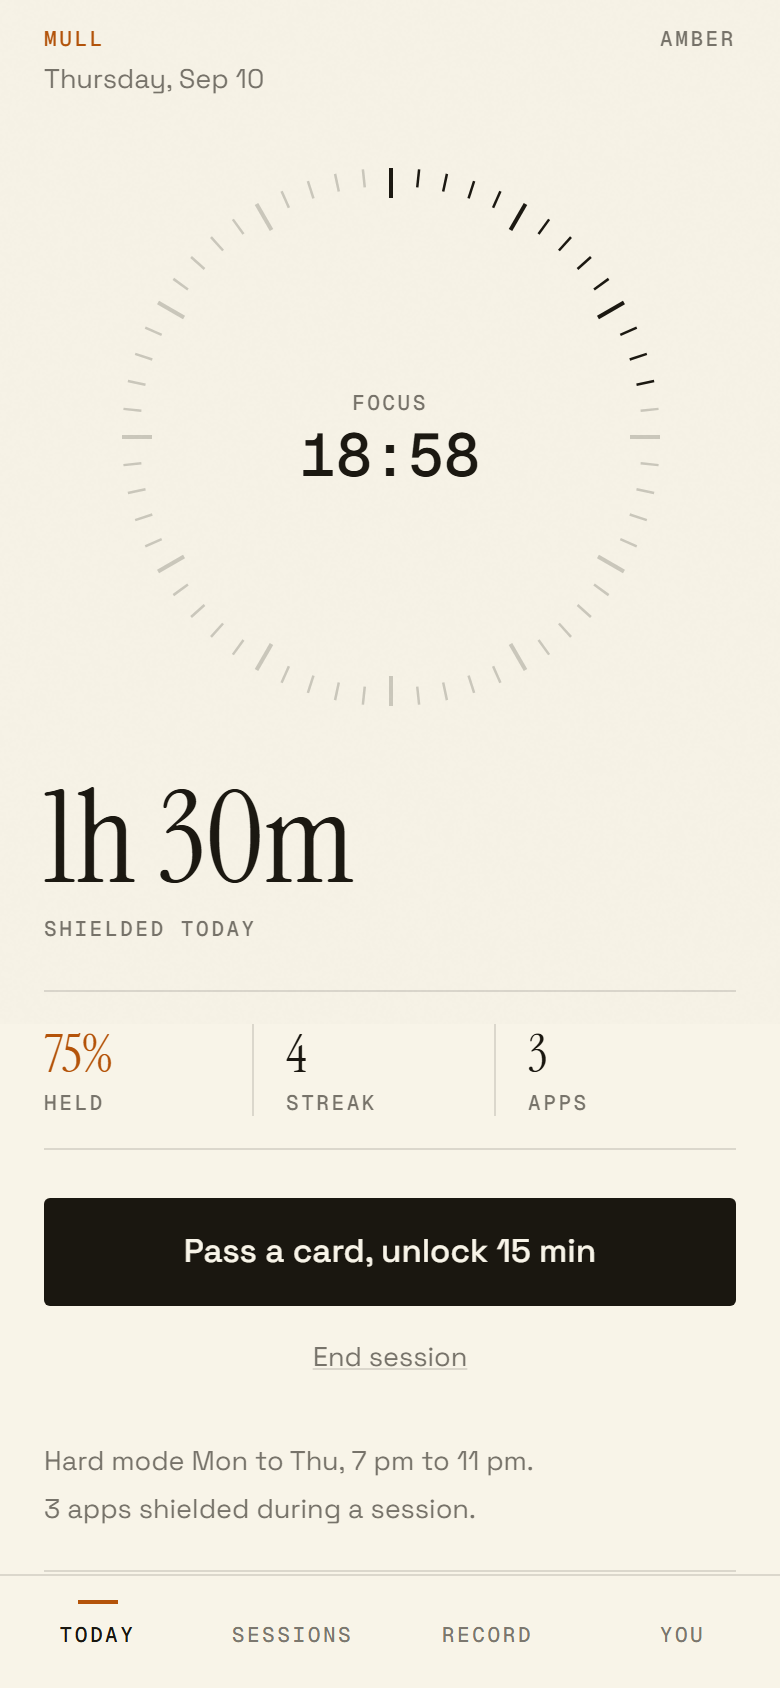
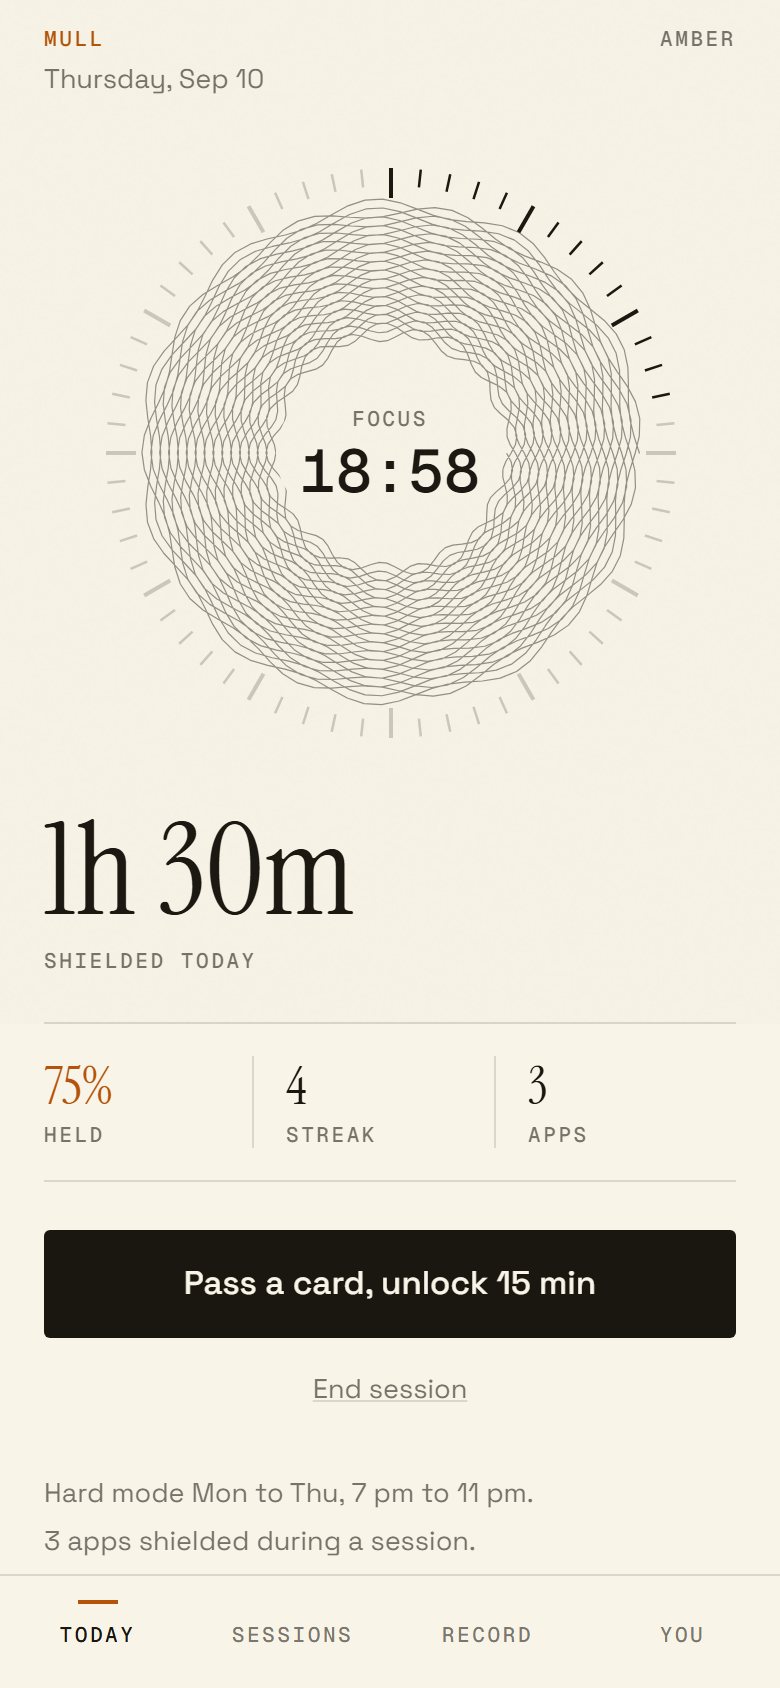
mobile: guilloche seal as the signature visual
Dennis wanted a signature object the way Opal has its gem. Guilloche is
the engine-turned engraving on banknotes, share certificates and watch
dials, which is the same world as the paper and ink register.

- src/guilloche.ts: one continuous spiral whose radius carries a sine,
  drawn dense enough that adjacent turns cross and the crossings make the
  tone. Pure math, deterministic, one SVG path, no shader.
- the figure is derived from the record: lobes come from concepts learned,
  depth from the streak, so the seal grows as you cover ground.
- it fills the dial, with the tick bezel outside and the middle left clear
  for the numerals. It turns six degrees a minute during a session, which
  is a real rose engine's rate and slow enough you only see it if you look.
  Still under reduced motion.
- Record page carries it as a letterhead mark.
- icon, adaptive icon, splash and favicon all drawn from the same
  generator, in a bolder cut: the 36 turn figure collapses to a grey donut
  below 120px and an icon lives at 60, so the mark has a small-size variant
  like any real one. Verified at 180 / 120 / 88 / 60 / 40.
- app.json goes light: paper splash and adaptive background.
- test/rosette-sheet.mjs and test/icons.mjs regenerate the studies.

tsc clean, exports clean.

diff --git a/apps/mobile/src/dial.tsx b/apps/mobile/src/dial.tsx
@@ -1,6 +1,8 @@
 import React, { useEffect, useRef } from 'react';
 import { Animated, Easing, useWindowDimensions, View } from 'react-native';
 import Svg, { Circle, G, Line } from 'react-native-svg';
+import type { Seal } from './guilloche';
+import { Rosette } from './rosette';
 import { SPACE, useTheme } from './theme';
 import { T } from './ui';
 
@@ -8,30 +10,29 @@ export type DialState = 'resting' | 'active' | 'shielded' | 'unlocked' | 'hard' 
 
 export interface DialProps {
   state: DialState;
-  /** 0..1 of the ring that is filled. */
+  /** 0..1 of the bezel that is filled. */
   progress: number;
   label: string;
   value: string;
   a11y: string;
+  /** Drives the engraving. Same record always draws the same figure. */
+  seal: Seal;
 }
 
 const TICKS = 60;
 const AnimatedLine = Animated.createAnimatedComponent(Line);
 
 /**
- * A bezel, not an orb. Sixty tick marks around a circle; elapsed ones are ink,
- * the rest are faint. Every fifth tick is longer, which is what makes it read as
- * an instrument instead of a progress ring. No fill, no gradient, no glow.
- *
- * State reads through the marks: hard mode drops the long-tick rhythm and adds
- * an inner rule (tighter, more clinical), unlocked draws the filled arc in accent
- * with an inner rule, milestone adds an outer hairline.
+ * A bezel around a seal, not an orb. The outer ring is sixty tick marks, elapsed
+ * in ink and the rest faint, every fifth longer, which is what makes it read as
+ * an instrument. Inside sits the guilloché, which carries the record. The middle
+ * stays clear paper so the numerals have somewhere quiet to sit.
  */
-export function Dial({ state, progress, label, value, a11y }: DialProps) {
+export function Dial({ state, progress, label, value, a11y, seal }: DialProps) {
   const { c, reduceMotion } = useTheme();
   const { width } = useWindowDimensions();
 
-  const size = Math.min(Math.round(width * 0.70), 300);
+  const size = Math.min(Math.round(width * 0.74), 320);
   const box = size;
   const cx = box / 2;
   const cy = box / 2;
@@ -40,6 +41,9 @@ export function Dial({ state, progress, label, value, a11y }: DialProps) {
   const uniform = state === 'hard';
   const filled = Math.round(Math.max(0, Math.min(1, progress)) * TICKS);
   const inkTick = state === 'unlocked' ? c.accent : state === 'resting' ? c.fgMuted : c.fg;
+
+  const engraving = state === 'unlocked' || state === 'milestone' ? c.accent : c.fg;
+  const engravingOpacity = state === 'resting' ? 0.28 : state === 'hard' ? 0.32 : 0.45;
 
   // One earned motion: the marks sweep on when the dial changes state.
   const sweep = useRef(new Animated.Value(1)).current;
@@ -59,15 +63,32 @@ export function Dial({ state, progress, label, value, a11y }: DialProps) {
     const len = uniform ? 9 : major ? 15 : 9;
     const on = i < filled;
     const angle = (i / TICKS) * 2 * Math.PI - Math.PI / 2;
-    const x1 = cx + Math.cos(angle) * (outer - len);
-    const y1 = cy + Math.sin(angle) * (outer - len);
-    const x2 = cx + Math.cos(angle) * outer;
-    const y2 = cy + Math.sin(angle) * outer;
-    return { i, x1, y1, x2, y2, on, major, w: major ? 2 : 1.25 };
+    return {
+      i,
+      x1: cx + Math.cos(angle) * (outer - len),
+      y1: cy + Math.sin(angle) * (outer - len),
+      x2: cx + Math.cos(angle) * outer,
+      y2: cy + Math.sin(angle) * outer,
+      on,
+      w: major ? 2 : 1.25,
+    };
   });
 
   return (
     <View accessible accessibilityLabel={a11y} style={{ width: box, height: box, alignSelf: 'center', alignItems: 'center', justifyContent: 'center' }}>
+      <Rosette
+        size={box}
+        innerRatio={0.4}
+        outerRatio={0.86}
+        seal={seal}
+        stroke={engraving}
+        strokeWidth={0.6}
+        opacity={engravingOpacity}
+        driftPerMinute={state === 'active' || state === 'unlocked' ? 6 : 0}
+        reduceMotion={reduceMotion}
+        austere={state === 'hard'}
+      />
+
       <Svg width={box} height={box} style={{ position: 'absolute' }}>
         <G>
           {marks.map((m) => (
@@ -84,11 +105,11 @@ export function Dial({ state, progress, label, value, a11y }: DialProps) {
             />
           ))}
         </G>
-        {(state === 'hard' || state === 'unlocked') && <Circle cx={cx} cy={cy} r={outer - 24} stroke={c.border} strokeWidth={1} fill="none" />}
+        {(state === 'hard' || state === 'unlocked') && <Circle cx={cx} cy={cy} r={outer - 20} stroke={c.border} strokeWidth={1} fill="none" />}
         {state === 'milestone' && <Circle cx={cx} cy={cy} r={outer - 1} stroke={c.accentBorder} strokeWidth={1} fill="none" />}
       </Svg>
 
-      <View style={{ alignItems: 'center', gap: SPACE.xs }}>
+      <View style={{ alignItems: 'center', gap: SPACE.xs, backgroundColor: c.bg, paddingHorizontal: SPACE.md, paddingVertical: SPACE.sm, borderRadius: 999 }}>
         {label ? (
           <T v="label" color={c.fgMuted}>
             {label}

diff --git a/apps/mobile/src/guilloche.ts b/apps/mobile/src/guilloche.ts
@@ -1,0 +1,77 @@
+/**
+ * Guilloché: the engine-turned engraving on banknotes, share certificates and
+ * watch dials. A rose engine cuts one continuous line while the work rotates and
+ * the cutter rocks, so the line crosses its own previous turns and the crossings
+ * make the tone. Same idea here: one spiral whose radius carries a sine, drawn
+ * dense enough that adjacent turns interleave.
+ *
+ * One path element, no fill, no gradient, no shader. Deterministic, so the same
+ * record always draws the same seal.
+ */
+
+export interface RosetteParams {
+  /** Radius where the engraving starts. Leave the middle clear for the numerals. */
+  rInner: number;
+  /** Radius where it ends. */
+  rOuter: number;
+  /** How many times the line goes around. Density. */
+  turns: number;
+  /** Lobes per revolution. Fractional values precess and look richer. */
+  petals: number;
+  /**
+   * Wave height as a multiple of the pitch between turns. Below 1 the turns never
+   * touch and it reads as a plain spiral; around 1.4 to 2.2 they cross and the
+   * interference appears. Above 3 it goes to mush.
+   */
+  amplitude: number;
+  /** Radians. Rotates the whole figure. */
+  phase?: number;
+  /** Points per revolution. 120 is smooth at phone sizes. */
+  resolution?: number;
+}
+
+export interface Seal {
+  /** What the pattern is derived from, so the same record redraws the same seal. */
+  concepts: number;
+  streak: number;
+}
+
+/** Builds the SVG `d` string for one continuous engraved spiral. */
+export function rosettePath(cx: number, cy: number, p: RosetteParams): string {
+  const res = p.resolution ?? 120;
+  const steps = Math.max(2, Math.round(p.turns * res));
+  const band = p.rOuter - p.rInner;
+  const pitch = band / p.turns;
+  const amp = pitch * p.amplitude;
+  const phase = p.phase ?? 0;
+
+  const out: string[] = [];
+  for (let i = 0; i <= steps; i++) {
+    const t = i / steps;
+    const theta = t * p.turns * Math.PI * 2;
+    const r = p.rInner + band * t + amp * Math.sin(p.petals * theta + phase);
+    const x = cx + r * Math.cos(theta);
+    const y = cy + r * Math.sin(theta);
+    out.push(`${i === 0 ? 'M' : 'L'}${x.toFixed(2)} ${y.toFixed(2)}`);
+  }
+  return out.join('');
+}
+
+/**
+ * The seal grows with the record. Petals come from concepts learned so the figure
+ * gains lobes as you cover ground; amplitude comes from the streak so a run of
+ * passes deepens the cut. Both are clamped, because past a point more is mush.
+ */
+export function paramsForSeal(seal: Seal, rInner: number, rOuter: number): RosetteParams {
+  const concepts = Math.max(0, seal.concepts);
+  const streak = Math.max(0, seal.streak);
+  return {
+    rInner,
+    rOuter,
+    turns: 30,
+    // 6 lobes at zero, one more per two concepts, capped at 22. The .5 keeps it
+    // precessing so the figure never closes into a plain flower.
+    petals: Math.min(22, 6 + Math.floor(concepts / 2)) + 0.5,
+    amplitude: Math.min(2.4, 1.3 + streak * 0.08),
+  };
+}

diff --git a/apps/mobile/src/rosette.tsx b/apps/mobile/src/rosette.tsx
@@ -1,0 +1,57 @@
+import React, { useEffect, useMemo, useRef } from 'react';
+import { Animated, Easing } from 'react-native';
+import Svg, { Path } from 'react-native-svg';
+import { paramsForSeal, rosettePath, type Seal } from './guilloche';
+
+export interface RosetteProps {
+  size: number;
+  /** Fraction of the radius left clear in the middle. */
+  innerRatio: number;
+  /** Fraction of the radius the engraving reaches. */
+  outerRatio: number;
+  seal: Seal;
+  stroke: string;
+  strokeWidth?: number;
+  opacity?: number;
+  /** Degrees per minute. 0 is still. Ignored under reduced motion. */
+  driftPerMinute?: number;
+  reduceMotion?: boolean;
+  /** Tighter, shallower cut. Used by hard mode. */
+  austere?: boolean;
+}
+
+const AnimatedSvg = Animated.createAnimatedComponent(Svg);
+
+/**
+ * The seal. One engraved spiral whose figure is derived from the record, so it
+ * gains lobes as concepts are learned and deepens with a streak. Static by
+ * default; during a session it turns about six degrees a minute, which is the
+ * rate of a real rose engine and slow enough that you only notice it if you look.
+ */
+export function Rosette({ size, innerRatio, outerRatio, seal, stroke, strokeWidth = 0.6, opacity = 1, driftPerMinute = 0, reduceMotion = false, austere = false }: RosetteProps) {
+  const r = size / 2;
+  const d = useMemo(() => {
+    const p = paramsForSeal(seal, r * innerRatio, r * outerRatio);
+    // 90 points per turn is smooth at phone sizes and keeps the path under ~3k commands.
+    return rosettePath(r, r, austere ? { ...p, turns: p.turns + 8, amplitude: Math.max(0.9, p.amplitude - 0.7), resolution: 90 } : { ...p, resolution: 90 });
+  }, [r, innerRatio, outerRatio, seal.concepts, seal.streak, austere]);
+
+  const spin = useRef(new Animated.Value(0)).current;
+  useEffect(() => {
+    spin.stopAnimation();
+    spin.setValue(0);
+    if (reduceMotion || driftPerMinute <= 0) return;
+    const msPerTurn = (360 / driftPerMinute) * 60_000;
+    const loop = Animated.loop(Animated.timing(spin, { toValue: 1, duration: msPerTurn, easing: Easing.linear, useNativeDriver: true }));
+    loop.start();
+    return () => loop.stop();
+  }, [driftPerMinute, reduceMotion, spin]);
+
+  const rotate = spin.interpolate({ inputRange: [0, 1], outputRange: ['0deg', '360deg'] });
+
+  return (
+    <AnimatedSvg width={size} height={size} style={{ position: 'absolute', opacity, transform: [{ rotate }] }} pointerEvents="none">
+      <Path d={d} fill="none" stroke={stroke} strokeWidth={strokeWidth} strokeLinejoin="round" />
+    </AnimatedSvg>
+  );
+}

diff --git a/apps/mobile/app/(tabs)/stats.tsx b/apps/mobile/app/(tabs)/stats.tsx
@@ -4,6 +4,7 @@ import * as Clipboard from 'expo-clipboard';
 import { useSafeAreaInsets } from 'react-native-safe-area-context';
 import { listConcepts, medianCardMs } from '@mull/core/stats';
 import { buildRecap, weekStart } from '@mull/core/recap';
+import { Rosette } from '@/rosette';
 import { useStore } from '@/store';
 import { GUTTER, SPACE, useTheme } from '@/theme';
 import { FigureRow, Rule, T } from '@/ui';
@@ -32,9 +33,14 @@ export default function Record() {
 
   return (
     <ScrollView style={{ flex: 1 }} contentContainerStyle={{ paddingTop: insets.top + SPACE.lg, paddingHorizontal: GUTTER, paddingBottom: SPACE.s40 }}>
-      <T v="display">Record.</T>
+      <View style={{ flexDirection: 'row', justifyContent: 'space-between', alignItems: 'flex-start' }}>
+        <T v="display">Record.</T>
+        <View style={{ width: 84, height: 84, marginTop: -SPACE.sm, alignItems: 'center', justifyContent: 'center' }} pointerEvents="none">
+          <Rosette size={84} innerRatio={0.28} outerRatio={0.92} seal={{ concepts: concepts.length, streak: stats.bestStreak }} stroke={c.fg} strokeWidth={0.5} opacity={0.34} />
+        </View>
+      </View>
 
-      <T v="numeralLg" style={{ marginTop: SPACE.s32 }}>
+      <T v="numeralLg" style={{ marginTop: SPACE.xl }}>
         {formatSaved(state.savedSeconds)}
       </T>
       <T v="label" color={c.fgMuted} style={{ marginTop: SPACE.xs }}>

diff --git a/apps/mobile/app/(tabs)/index.tsx b/apps/mobile/app/(tabs)/index.tsx
@@ -3,7 +3,7 @@ import { Pressable, ScrollView, View } from 'react-native';
 import { useRouter } from 'expo-router';
 import { useSafeAreaInsets } from 'react-native-safe-area-context';
 import { hardModeUntil, isHardModeNow } from '@mull/core/schedule';
-import { holdRate } from '@mull/core/stats';
+import { holdRate, listConcepts } from '@mull/core/stats';
 import { Dial, type DialState } from '@/dial';
 import { useStore } from '@/store';
 import { GUTTER, SPACE, useTheme } from '@/theme';
@@ -76,7 +76,14 @@ export default function Today() {
       </T>
 
       <View style={{ marginTop: SPACE.s32, marginBottom: SPACE.s32 }}>
-        <Dial state={dial} progress={progress} label={label} value={value} a11y={session ? `Session active, ${value} left.` : hard ? `Hard mode, ${until}.` : 'No session.'} />
+        <Dial
+          state={dial}
+          progress={progress}
+          label={label}
+          value={value}
+          seal={{ concepts: listConcepts(state.memory).length, streak: state.stats.streak }}
+          a11y={session ? `Session active, ${value} left.` : hard ? `Hard mode, ${until}.` : 'No session.'}
+        />
       </View>
 
       <T v="numeralLg" color={c.fg}>
